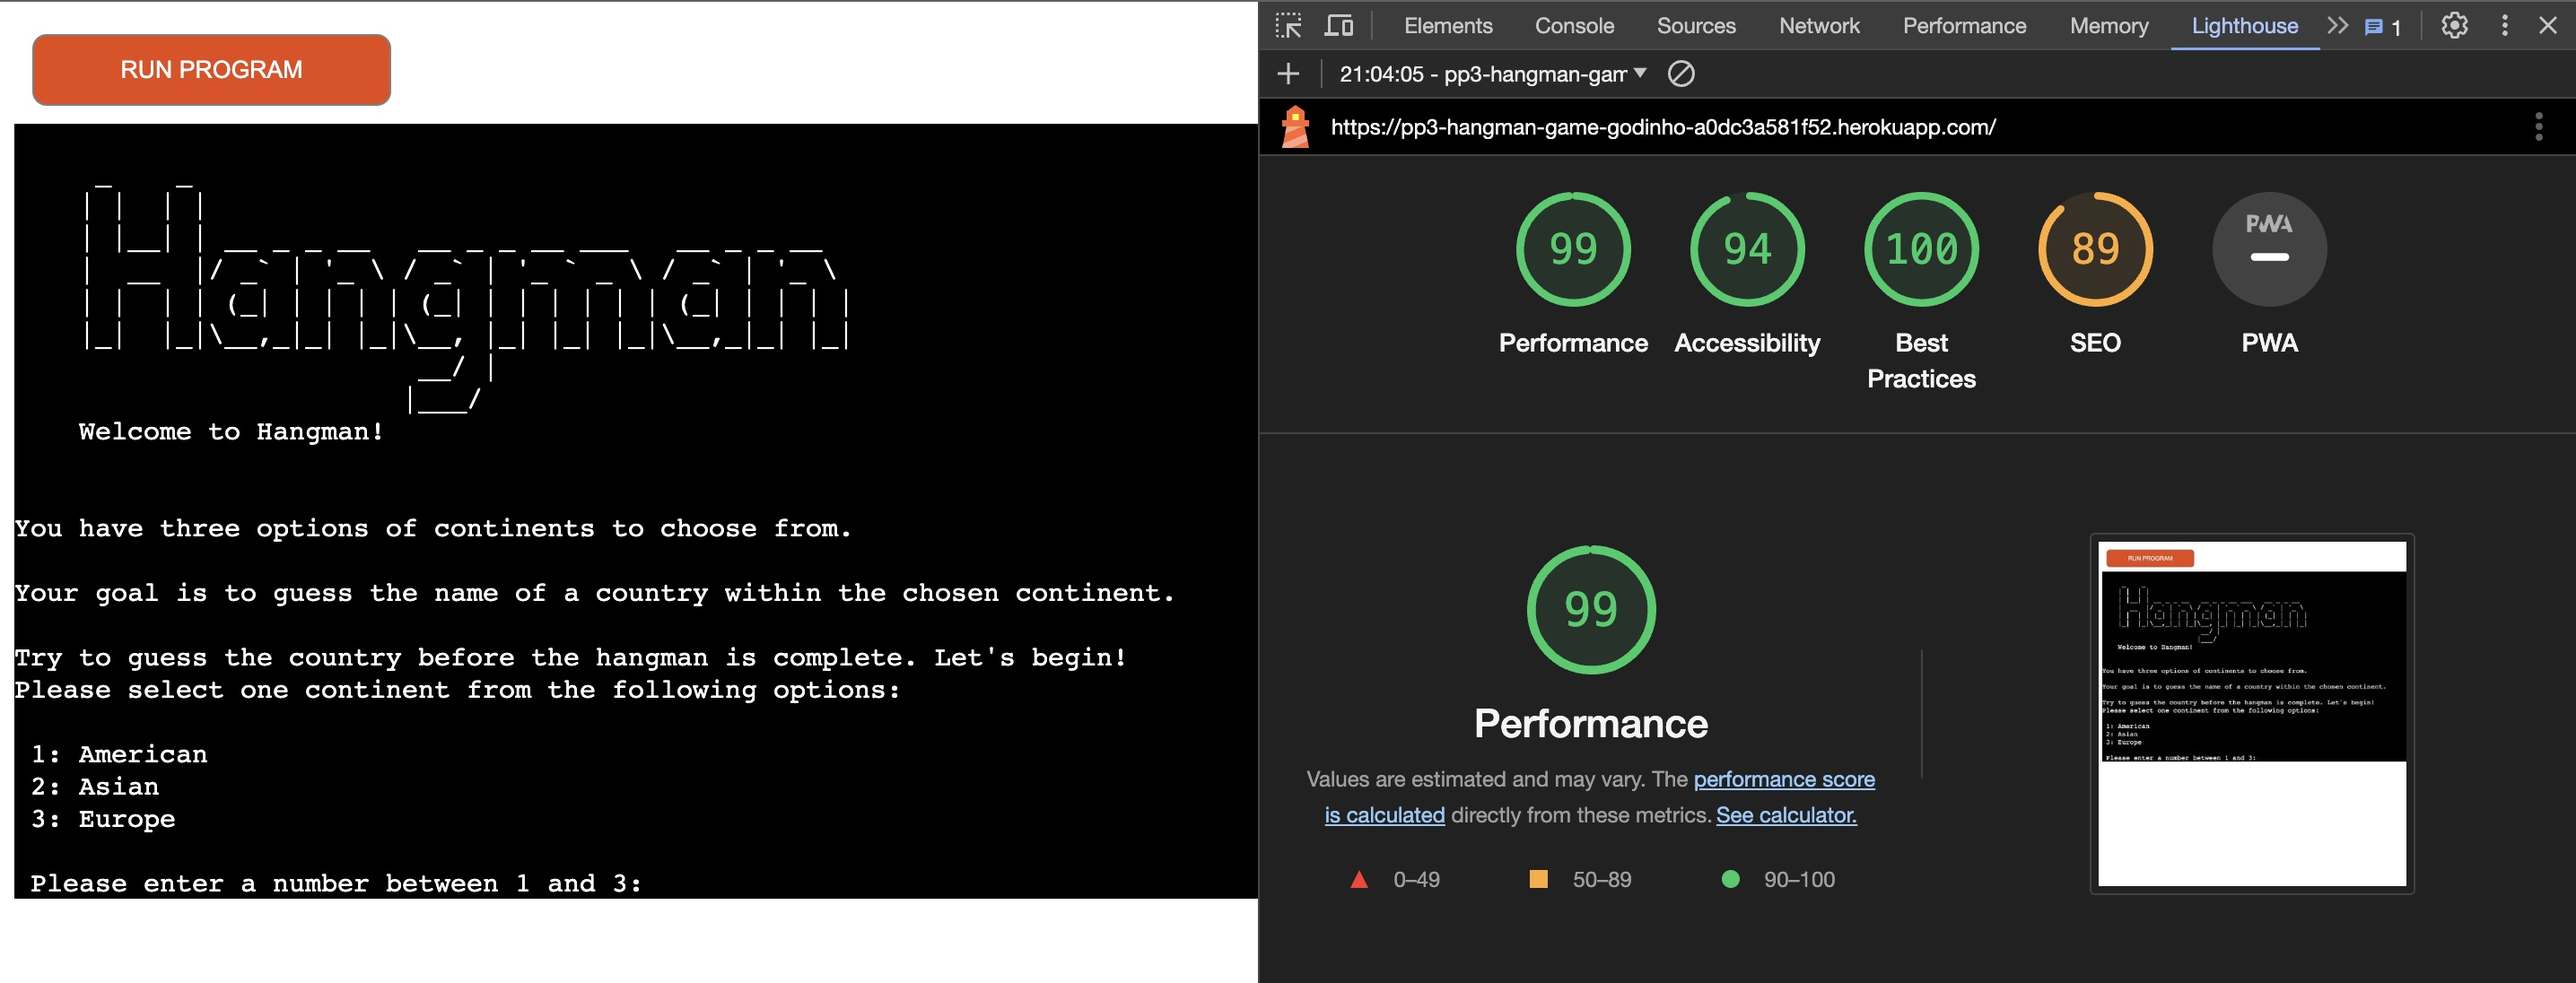
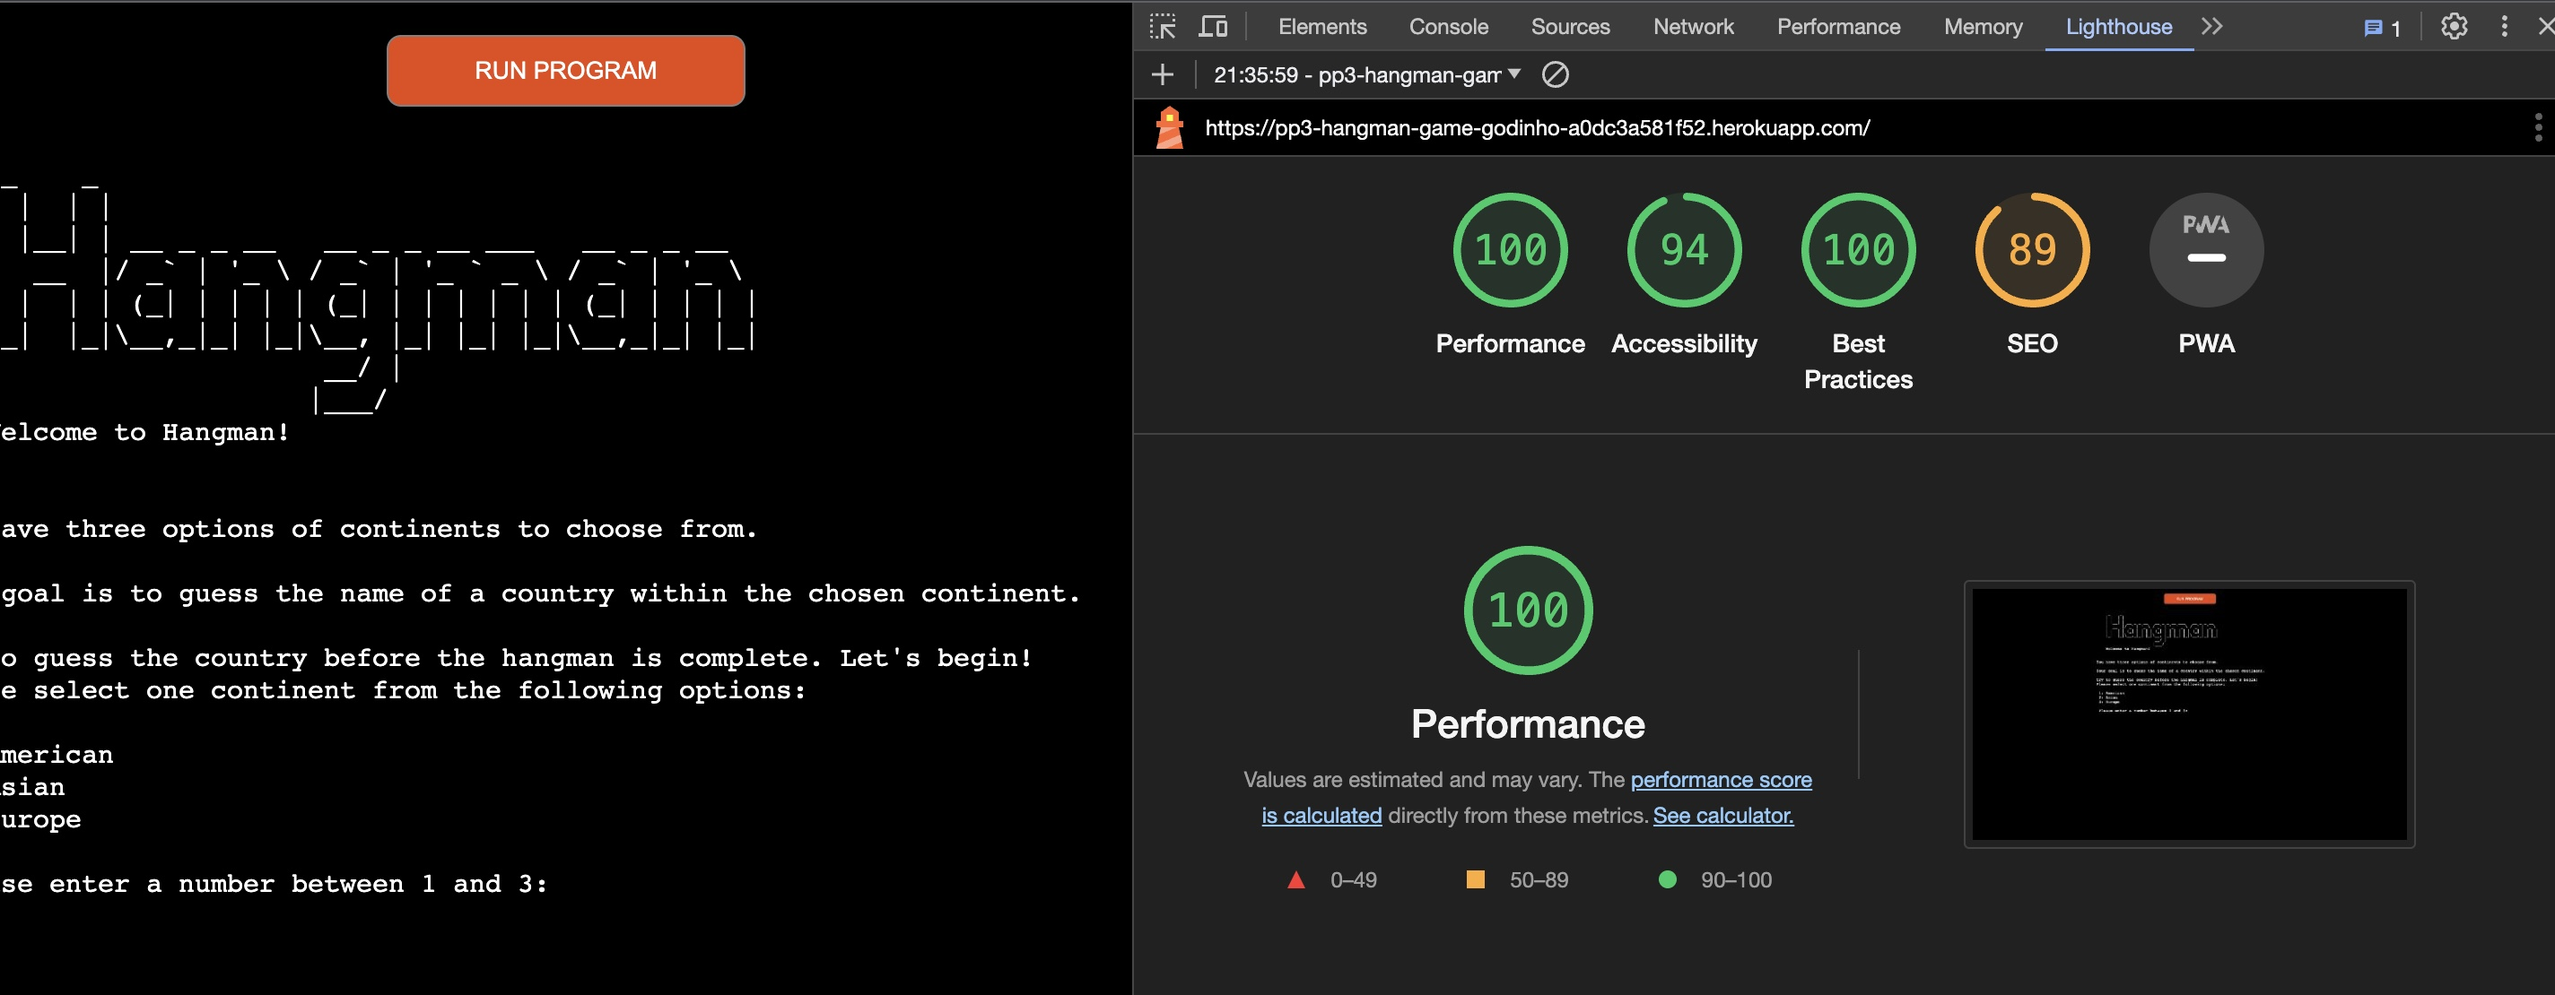
Enhanced testing.md: Added comprehensive sections for validation, bug tracking, and a conclusive summary

diff --git a/views/layout.html b/views/layout.html
@@ -13,11 +13,11 @@
         body {
             font-family: Arial;
             background-color: #000;
+            height: 100vh;
             display: flex;
+            align-items: center;
             flex-direction: column;
             justify-content: center;
-            align-items: center;
-            overflow-y: hidden;
         }
 
         /**

diff --git a/run.py b/run.py
@@ -1,79 +1,48 @@
 import random
-"""Import the 'random' module
-to use later for selecting a random country."""
-
-# Importing the 'american_countries' module.
 import american_countries
-
-# Importing the 'asian_countries' module.
 import asian_countries
-
-# Importing the 'european_countries' module.
 import european_countries
-
-# Importing the 'hangman_stages' to use when the letter is wrong.
 import hangman_stages
-
-# Importing the hang_art to use to call the welcome function.
 import hangman_art
 
 
 def choice_continent():
-    # Function to get the user's choice for a continent.
     while True:
         try:
-            """Use 'input' to get user input and
-             'int' to convert it to an integer."""
-            choice_number = int(input("Please select one continent from the following options: \n\n"
-                                     " 1: American \n"
-                                     " 2: Asian \n"
-                                     " 3: Europe \n\n"
-                                     " Please enter a number between 1 and 3: "))
-            # Check if the input is within the valid range (1 to 3).
-            if choice_number >= 1 and choice_number <= 3:
-
-                # Exit the loop if the input is valid.
+            choice_number = int(input(
+                "Please select one continent from the following options:\n\n"
+                " 1: American\n"
+                " 2: Asian\n"
+                " 3: Europe\n\n"
+                " Please enter a number between 1 and 3: "))
+            if 1 <= choice_number <= 3:
                 break
-
             else:
-                # If the input is not valid, inform the user and prompt again.
-                print('Ops! That was not a valid number. try again\n\n')
+                print('Ops! That was not a valid number. Try again\n\n')
         except ValueError:
             print('Please enter a number between 1 and 3.\n\n')
-    # Return the valid choice number.
     return choice_number
 
 
 def generate_word(number):
-    """Function to generate a random country name
-    based on the selected continent number.
-    If the number is 1, choose a random country from
-    the 'american_countries' list and return it."""
     if number == 1:
         return random.choice(american_countries.american_countries).upper()
-
     elif number == 2:
         return random.choice(asian_countries.asian_countries).upper()
-
     elif number == 3:
         return random.choice(european_countries.european_countries).upper()
 
 
-def get_single_letter(letter):
-    """ This function enables the player to type only one letter at a time.
-    If the player attempts to type two or more letters, they will not be able
-    to proceed until they have typed a single letter.
-    This function can be called within the check_letter()"""
+def get_single_letter():
     while True:
         try:
             letter = input('Please enter a letter: \n').upper()
             if len(letter) == 1 and letter.isalpha():
                 break
             else:
-
                 print('Please enter one letter at a time. Try again!\n\n')
         except ValueError:
-            print('type one letter.\n\n')
+            print('Type one letter.\n\n')
     return letter
 
 
@@ -81,7 +50,7 @@ def play_again():
     while True:
         try:
             print("Would you like to play again?\n\n")
-            repeat_game = input("Y or N:  ").upper()
+            repeat_game = input("Y or N: ").upper()
             if repeat_game == 'Y':
                 print("Let's start!\n")
                 main()
@@ -89,63 +58,47 @@ def play_again():
             elif repeat_game == 'N':
                 print("Thank you, see you next time!\n")
                 break
-
         except ValueError:
             print('Please, Y or N\n\n')
 
 
 def check_letter(word):
-    # Counter for the number of correctly guessed letters
     correct_count = 0
-    # Counter for the number of incorrectly guessed letters
     wrong_count = 6
-    # String to store correctly guessed letters
     correct = ''
-    # String to store incorrectly guessed letters
     wrong = ''
 
-    # Continue until all letters are guessed
-    # correctly or 6 wrong guesses are made
     while correct_count != len(word.replace(' ', '')) and wrong_count != 0:
         display = ''
         for letter in word:
             if letter in correct:
-                display += f'{letter}'  # Display correctly guessed letters
+                display += f'{letter}'
             else:
-                display += '_ '  # Display underscores for unguessed letters
+                display += '_ '
         print(display)
 
-        letter = get_single_letter(letter)
+        letter = get_single_letter()
 
         if letter in correct + wrong:
             print('You have attempted this letter')
             print('Please, try again!')
-
             continue
 
         if letter in word:
-            # The guessed letter is in the word
             print('You got the letter right!')
-            # Add the correctly guessed letter to the 'correct' string
             correct += letter
-            # Display the correctly guessed letters
             print("You have entered the following letters: \n\n"
-            f"{correct + wrong}\n\n")
-            # Increment the count of correct guesses
+                  f"{correct + wrong}\n\n")
             correct_count += word.count(letter)
             if correct_count == len(word.replace(' ', '')):
                 print("You won the game! Congratulations!\n")
                 print(f"The country is {word}\n\n")
                 play_again()
-
         else:
-            # The guessed letter is not in the word
             print('You got the letter wrong!')
-            # Add the incorrectly guessed letter to the 'wrong' string
             wrong += letter
             print("You have entered the following letters: \n\n"
-            f"{correct + wrong}\n\n")
-            # Increment the count of wrong guesses
+                  f"{correct + wrong}\n\n")
             wrong_count -= 1
             print(hangman_stages.stages[wrong_count])
             if wrong_count == 0:

diff --git a/TESTING.md b/TESTING.md
@@ -87,4 +87,74 @@ The manual testing of the Hangman game revealed that the program successfully me
 
 ## Accessibility
 
+After conducting a Lighthouse test, the accessibility score was initially at 94%, with identified issues related to insufficient contrast ratios between background and foreground colors. Addressing this concern through adjustments to the background-color has led to a significant improvement, achieving a perfect accessibility score of 100 in the desktop test and maintaining 94 in the mobile test. Furthermore, these modifications have positively impacted performance, ultimately contributing to an overall enhanced user experience.
+
+### Desktop
+<img src="docs/accessibility/lighthouse-desktop-error.jpg" alt="accessibility-test">
+
 <img src="docs/accessibility/lighthouse-desktop.jpg" alt="accessibility-test">
+
+### Mobile
+
+<img src="docs/accessibility/lighthouse-mobile.jpg" alt="accessibility-test">
+
+## Validation 
+
+#### Python
+
+##### Pep8
+
+In the process of validating the Python code using the PEP8 validator, several issues were identified:
+
+- Line Length Exceeded (E501):
+
+- Line 27: The line exceeded the recommended maximum length of 79 characters.
+Continuation Line Under-Indented for Visual Indent (E128):
+
+- Lines 28-31, 133, and 147: The continuation lines were under-indented for visual clarity.
+
+To address these issues, I have broken down the long lines into smaller, more readable segments and ensured proper indentation for continuation lines. This not only enhances code readability but also aligns with PEP8 conventions. The updated code now adheres to the recommended standards, promoting a cleaner and more consistent coding style.
+
+<img src="docs/validator/pep8-validator-errors.png" alt="pep8-validator">
+
+<img src="docs/validator/pep8-validator.png" alt="pep8-validator">
+
+#### HTML
+HTML has been validated with [W3C HTML5 Validator](https://validator.w3.org/)
+
+<img src="docs/validator/html-validator.png" alt="html-validator">
+
+#### CSS
+CSS has been validated with [W3C CSS Validator](https://jigsaw.w3.org/css-validator/)
+
+<img src="docs/validator/css-validator.png" alt="css-validator">
+
+
+## Bugs
+
+In the play_again function, a bug was identified where, upon entering 'N' to close the game, the program would erroneously prompt the user twice. This issue has been successfully addressed in the updated code snippet below:
+
+<strong>
+if repeat_game == 'Y':
+    print("Let's start!\n")
+    main()
+    break
+elif repeat_game == 'N':
+    print("Thank you, see you next time!\n")
+    break
+</strong>
+
+The introduction of the break statement ensures the resolution of the problem, preventing the program from prompting the user multiple times when opting to close the game by typing 'N'. It is crucial to verify that this code snippet is embedded within an appropriate loop structure responsible for handling user input related to game repetition or closure.
+
+## Conclusion 
+
+The extensive manual testing of the Hangman game has proven to be highly successful, affirming the robustness and reliability of the program. Each testing category, from continent selection to play again functionality, was meticulously examined, and the program consistently demonstrated its ability to handle various scenarios with precision and grace.
+The program accurately generates random words from selected continents, efficiently manages correct and incorrect guesses, and provides a clear and informative user interface. The play again functionality resets the game state as expected, and the program exhibits resilience in handling edge cases, ensuring a seamless and enjoyable gaming experience.
+Moreover, the accessibility improvements achieved through Lighthouse testing reflect a commitment to inclusivity, with a perfect score of 100 on desktop and a commendable 94 on mobile, demonstrating a user-centric approach.
+The validation process, both for Python code and web technologies (HTML and CSS), reinforces adherence to best practices and standards, contributing to a clean and consistent codebase.
+While addressing a minor bug in the play_again function, the program now ensures a smooth closure without redundant prompts, further enhancing the overall user experience.
+In conclusion, the PP3 Hangman game has undergone rigorous testing, resulting in a well-crafted and dependable application that offers users an engaging and error-free gaming experience.
+
+
+
+

diff --git a/README.md b/README.md
@@ -108,11 +108,12 @@ To generate a random word, the player must choose from three continent options. 
 - [GitHub](https://github.com) used for secure online code storage.
 - [Heroku](https://heroku.com) for deployment of the project.
 - [CodeAnywhere](https://codeanywhere.com/) used as a cloud-based IDE for development.
+- [responsive design checker](https://responsivedesignchecker.com/) used to visualize how the website appears across various devices and screen sizes.
 - [Am I Responsive?](https://ui.dev/amiresponsive) used to show the website on a range of devices.
 
 ## Testing
 
-[Testing](/TESTING.md) 
+[The full testing documentation can be found in TESTING.md](/TESTING.md) 
 
 
 ## Deployment
